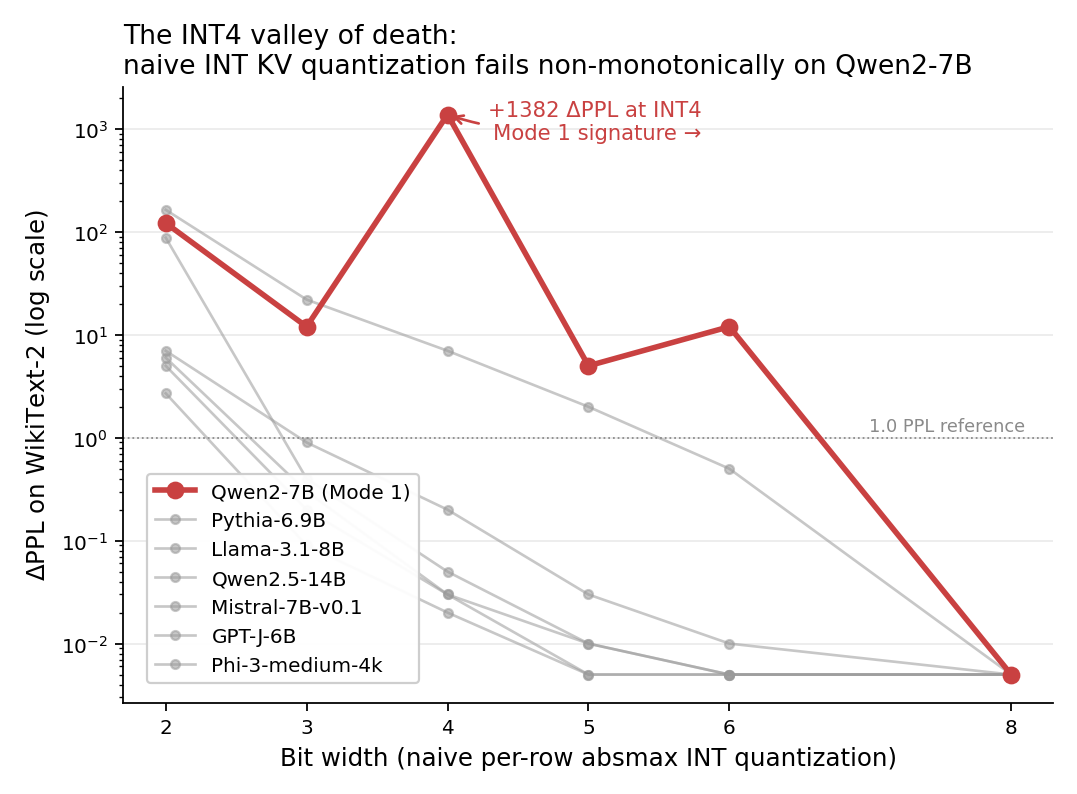
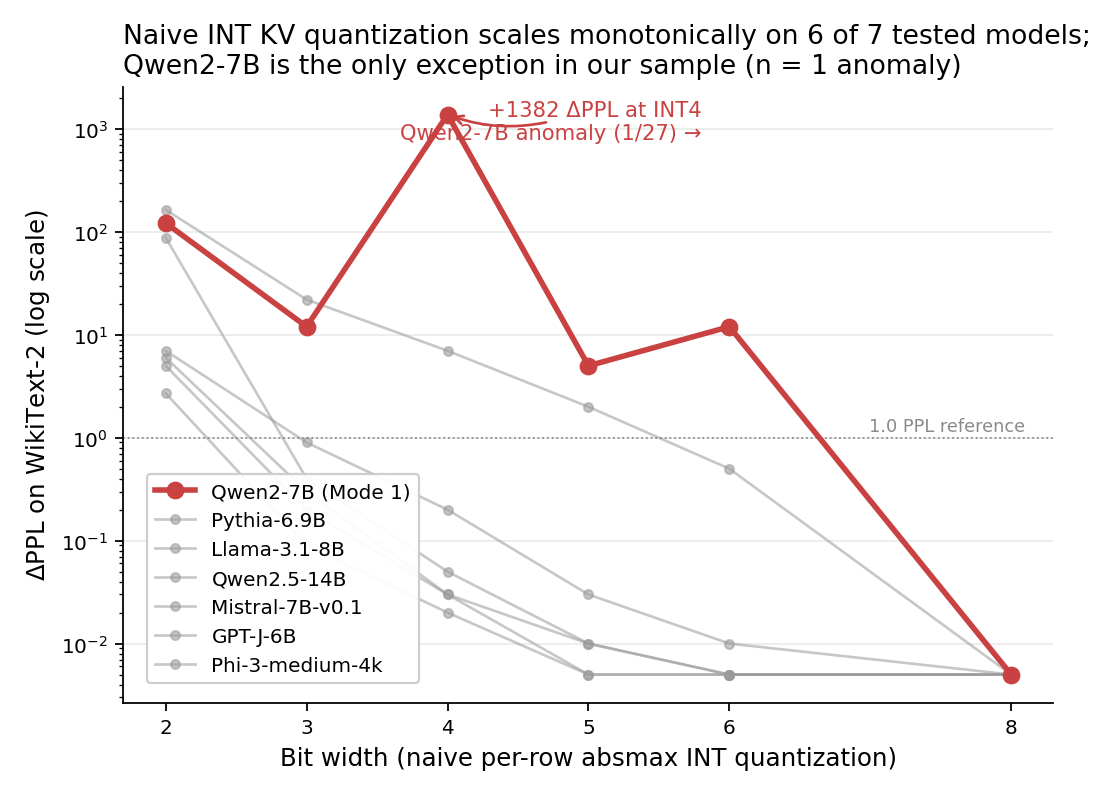
v0.3.10: fig01 title + annotation match v0.3.9 n=1 framing
v0.3.9 softened the README + THEORY 'two failure modes' framing
to consistently present Mode 1 as an n=1 observation rather than
a peer taxonomic category of Mode 2. This commit updates the
matching figure (fig01_int4_valley) so its title and annotation
no longer imply the stronger taxonomy.

Title:
  Before: 'The INT4 valley of death: naive INT KV quantization
           fails non-monotonically on Qwen2-7B'
  After:  'Naive INT KV quantization scales monotonically on 6
           of 7 tested models; Qwen2-7B is the only exception in
           our sample (n = 1 anomaly)'
  -- leads with the common case (6 of 7), names the exception
  explicitly, and labels it as n=1.

Annotation on the Qwen2-7B spike:
  Before: '+1382 ΔPPL at INT4 / Mode 1 signature →'
  After:  '+1382 ΔPPL at INT4 / Qwen2-7B anomaly (1/27) →'
  -- the fraction (1/27) is readable directly off the figure
  without referring back to the README.

figures/README.md fig01 description rewritten to lead with '6 of
7 models scale monotonically ... Qwen2-7B is the exception' and
to add an explicit 'n = 1 in our sample; we do not claim the
pattern generalizes to untested models' disclaimer, matching the
README §'The common case, and one observed special case'.

Main README alt text for fig01 updated to describe both the
common case and the single exception, so screen readers and
text-only consumers get the same calibrated framing as sighted
readers.

figures/make_figures.py docstring for fig01 also updated.
[…]

diff --git a/figures/make_figures.py b/figures/make_figures.py
@@ -9,8 +9,9 @@ Produces 4 figures (PNG @ 160 DPI + PDF) from the JSON data in
 
     fig01_int4_valley.{png,pdf}
         The motivation figure: naive per-row absmax INT quantization
-        across 7 models and 6 bit widths. Shows the Qwen2-7B INT4
-        valley of death on a log y-axis.
+        across 7 models and 6 bit widths. Shows the non-monotonic
+        +1382 ΔPPL spike at INT4 on Qwen2-7B -- an n=1 anomaly in
+        our sample, not a property shared with the other 6 models.
 
     fig02_8model_headline.{png,pdf}
         v0.3 headline: symmetric vs asymmetric INT3 nsep+pchan on 8
@@ -145,8 +146,8 @@ def fig01_int4_valley():
     ax.set_yscale("log")
     ax.set_xlabel("Bit width (naive per-row absmax INT quantization)")
     ax.set_ylabel(r"$\Delta\mathrm{PPL}$ on WikiText-2 (log scale)")
-    ax.set_title("The INT4 valley of death:\n"
-                 "naive INT KV quantization fails non-monotonically on Qwen2-7B",
+    ax.set_title("Naive INT KV quantization scales monotonically on 6 of 7 tested models;\n"
+                 "Qwen2-7B is the only exception in our sample (n = 1 anomaly)",
                  loc="left")
 
     ax.axhline(1.0, color=C_THRESH, linestyle=":", linewidth=0.8)
@@ -157,7 +158,7 @@ def fig01_int4_valley():
     ax.grid(True, which="major", axis="y", alpha=0.25)
     ax.set_xlim(1.7, 8.3)
 
-    ax.annotate("+1382 ΔPPL at INT4\nMode 1 signature →",
+    ax.annotate("+1382 ΔPPL at INT4\nQwen2-7B anomaly (1/27) →",
                 xy=(4, 1382.07), xytext=(5.8, 800),
                 fontsize=9.5, color="#c94141", ha="right",
                 arrowprops=dict(arrowstyle="->", color="#c94141",

diff --git a/src/modeq/__init__.py b/src/modeq/__init__.py
@@ -46,7 +46,7 @@ from .detect import measure_kv_outlier_ratio, classify_mode
 from .mode_aware import select_quantizer, describe_selection
 from .rotate import hadamard_matrix, rotate, unrotate, should_rotate
 
-__version__ = "0.3.9"
+__version__ = "0.3.10"
 
 __all__ = [
     # quantization primitives

diff --git a/figures/README.md b/figures/README.md
@@ -18,12 +18,17 @@ across figures.
 Naive per-row absmax INT quantization across 7 models and 6 bit widths,
 log y-axis. Source: companion paper V5 top-of-README sweep.
 
-Reading: the **Qwen2-7B** curve (red) is non-monotonic — INT4 is
-**+1382 ΔPPL** while INT3 and INT5 are both below +15. This "INT4 valley
-of death" is the Mode 1 pathology that motivated modeq; every other
-model in the sample scales monotonically with bit width.
+Reading: **6 of 7 models scale monotonically** with bit width — more
+bits, smoothly less ΔPPL. The **Qwen2-7B** curve (red) is the
+exception: **+1382 ΔPPL at INT4** vs +12 at INT3 and +5 at INT5. This
+non-monotonic spike (which we informally call the "INT4 valley") is
+the one observation in our 27-model survey that motivates modeq's
+mechanism work. It is **n = 1** in our sample; we do not claim the
+pattern generalizes to untested models.
 
-Good for: blog intro, paper motivation, talk opening slide.
+Good for: blog intro, paper motivation, talk opening slide. Pair with
+the n = 1 caveat in the main [README](../README.md#the-common-case-and-one-observed-special-case)
+when used in a published context.
 
 ## fig02_8model_headline — "v0.3 at a glance"
 

diff --git a/README.md b/README.md
@@ -56,7 +56,7 @@ WikiText-2 perplexity increase (ΔPPL) vs bit width on 7 models, naive absmax (n
 | GPT-J-6B (Mode 2) | 10.29 | +6 | +0.3 | +0.03 | +0 | +0 | +0 |
 | Phi-3-medium (Mode 2) | 2.13 | +5 | +0.2 | +0.03 | +0.01 | +0 | +0 |
 
-![INT4 valley of death on Qwen2-7B (ΔPPL vs bit width on 7 models, log y-axis)](figures/fig01_int4_valley.png)
+![Naive INT quantization ΔPPL vs bit width on 7 models (log y-axis). 6 of 7 scale monotonically; Qwen2-7B is the exception with a +1382 ΔPPL spike at INT4 — an n=1 anomaly in our sample.](figures/fig01_int4_valley.png)
 
 One of these is not like the others. **Qwen2-7B at INT4 is 295× worse than at INT5, and 116× worse than at INT3.** This is the INT4 valley of death.
 
